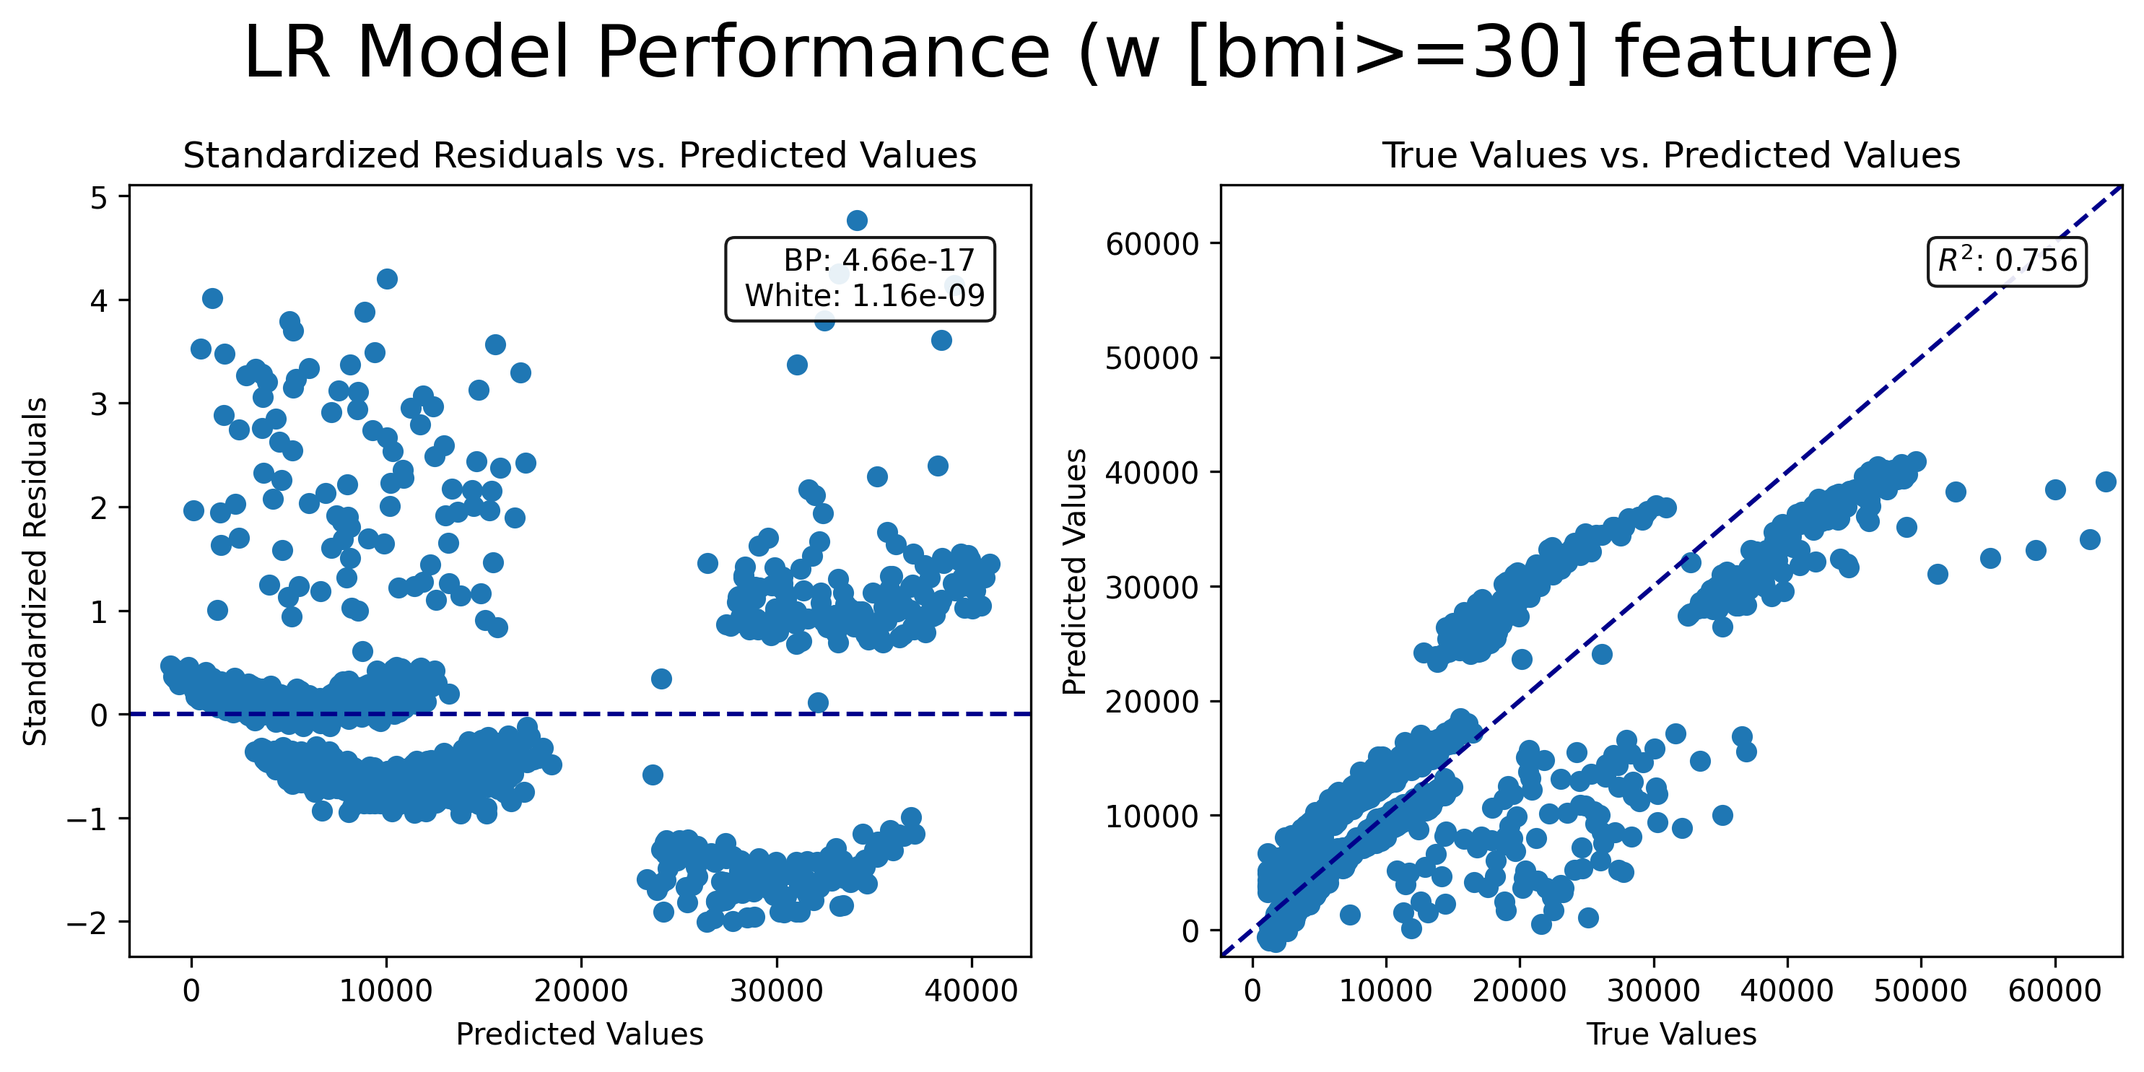
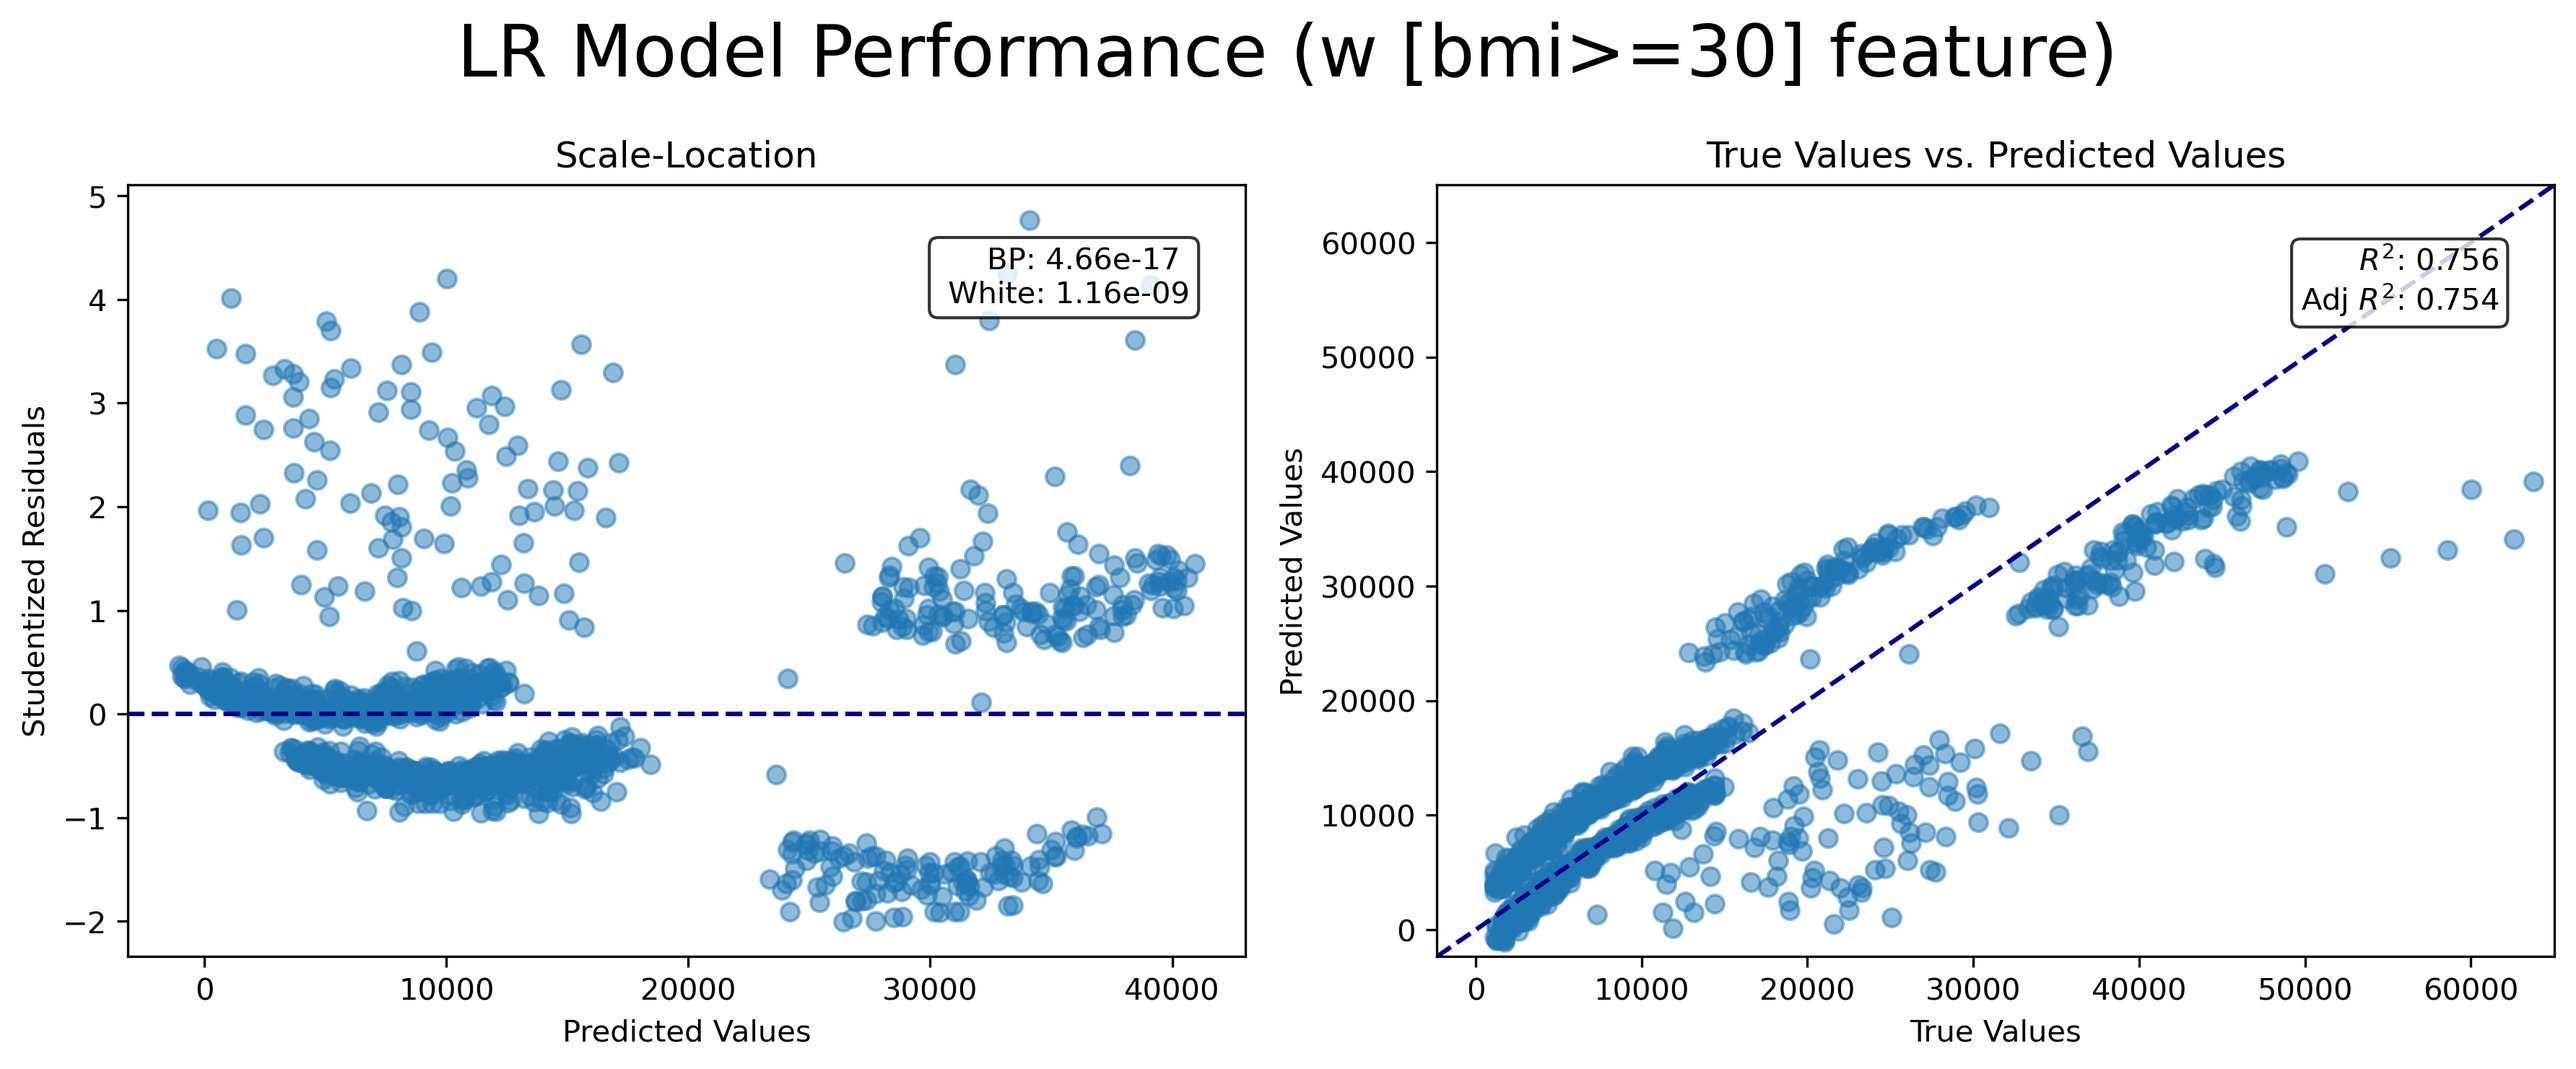
updated image axis labels and used new functions

diff --git a/cost_lin_reg.py b/cost_lin_reg.py
@@ -162,7 +162,6 @@ def sm_lr_model_results_subgrouped(lr_model, X_data, y, y_pred, plot_title, comb
     standardized_residuals = pd.DataFrame(lr_model.get_influence().resid_studentized_internal, columns=['stand_resid'])
     y_pred_series = pd.Series(y_pred, name='y_pred')
     y_series = pd.Series(y, name='y')
-    #relevant_data = pd.concat([X_data[['bmi_>=_30_yes', 'smoker_yes']], y_series, y_pred_series, standardized_residuals, grouping], axis=1)
     relevant_data = pd.concat([y_series, y_pred_series, standardized_residuals, grouping], axis=1)
         
     # Quantify Heteroscedasticity using Breusch-Pagan test and White test
@@ -242,7 +241,9 @@ def sm_lr_model_results_subgrouped(lr_model, X_data, y, y_pred, plot_title, comb
     if grouping is not None:
         ax2.legend(bbox_to_anchor=(1.02, 1), loc='upper left', borderaxespad=0, title='Subgroup', 
                    handles=scatter2.legend_elements()[0], labels=grouping_categories)  
-    textbox_text = r'$R^2$: %0.3f' %lr_model.rsquared
+    r2_str = r'$R^2$: %0.3f' %lr_model.rsquared
+    r2_adj_str = r'Adj $R^2$: %0.3f' %lr_model.rsquared_adj
+    textbox_text = f"{r2_str}\n{r2_adj_str}"
     ax2.text(0.95, 0.92, textbox_text, bbox=box_style, transform=ax2.transAxes, verticalalignment='top', horizontalalignment='right') 
     if not combine_plots: plt.show()
     
@@ -260,7 +261,6 @@ def sm_lr_model_results_subgrouped(lr_model, X_data, y, y_pred, plot_title, comb
     het_metrics = dict(zip(['BP', 'White'], [bp_test_results, white_test_results]))
     
     return het_metrics
-
 
 # Combine statsmodels linear regression model creation, fitting, and returning results    
 def fit_lr_model_results(fxn_X, fxn_y, plot_title, combine_plots=True, subgroup=False, cmap=my_cmap, save_img=False, filename_unique=None):
@@ -283,7 +283,6 @@ def fit_lr_model_results(fxn_X, fxn_y, plot_title, combine_plots=True, subgroup=
                                                  cmap=cmap, save_img=save_img, filename_unique=filename_unique)
         
     return fxn_lin_reg, fxn_y_pred, het_results
-
 
 # Convert statsmodels summary() output to pandas DataFrame
 def sm_results_to_df(summary):
@@ -369,7 +368,6 @@ sm_processed_X = manual_preprocess_sm(X)
 title_0 = 'Original'
 model_name_0 = 'original'
 file_name_0 = '0_' + model_name_0
-#het_metrics_0 = sm_lr_model_results(sm_lin_reg_0, y, sm_y_pred_0, combine_plots=True, plot_title=title_0, save_img=False, filename_unique=file_name_0)
 sm_lin_reg_0, sm_y_pred_0, het_results_0 = fit_lr_model_results(sm_processed_X, y,  plot_title=title_0, subgroup=False, save_img=False, filename_unique=file_name_0)
 
 # Organize model performance metrics
@@ -402,7 +400,7 @@ sm_lin_reg_1_0, sm_y_pred_1_0, het_results_1_0 = fit_lr_model_results(new_X_1, y
 
 # Plot model with subgrouping
 file_name_1 = '1_bmi_30_feature_grouped'
-sm_lin_reg_1, sm_y_pred_1, het_results_1 = fit_lr_model_results(new_X_1, y, title_1, subgroup=True, save_img=False, filename_unique=file_name_1)
+sm_lin_reg_1, sm_y_pred_1, het_results_1 = fit_lr_model_results(new_X_1, y, title_1, subgroup=False, save_img=True, filename_unique=file_name_1)
 
 # Organize model performance metrics
 summary_df_1 = sm_results_to_df(sm_lin_reg_1.summary())
